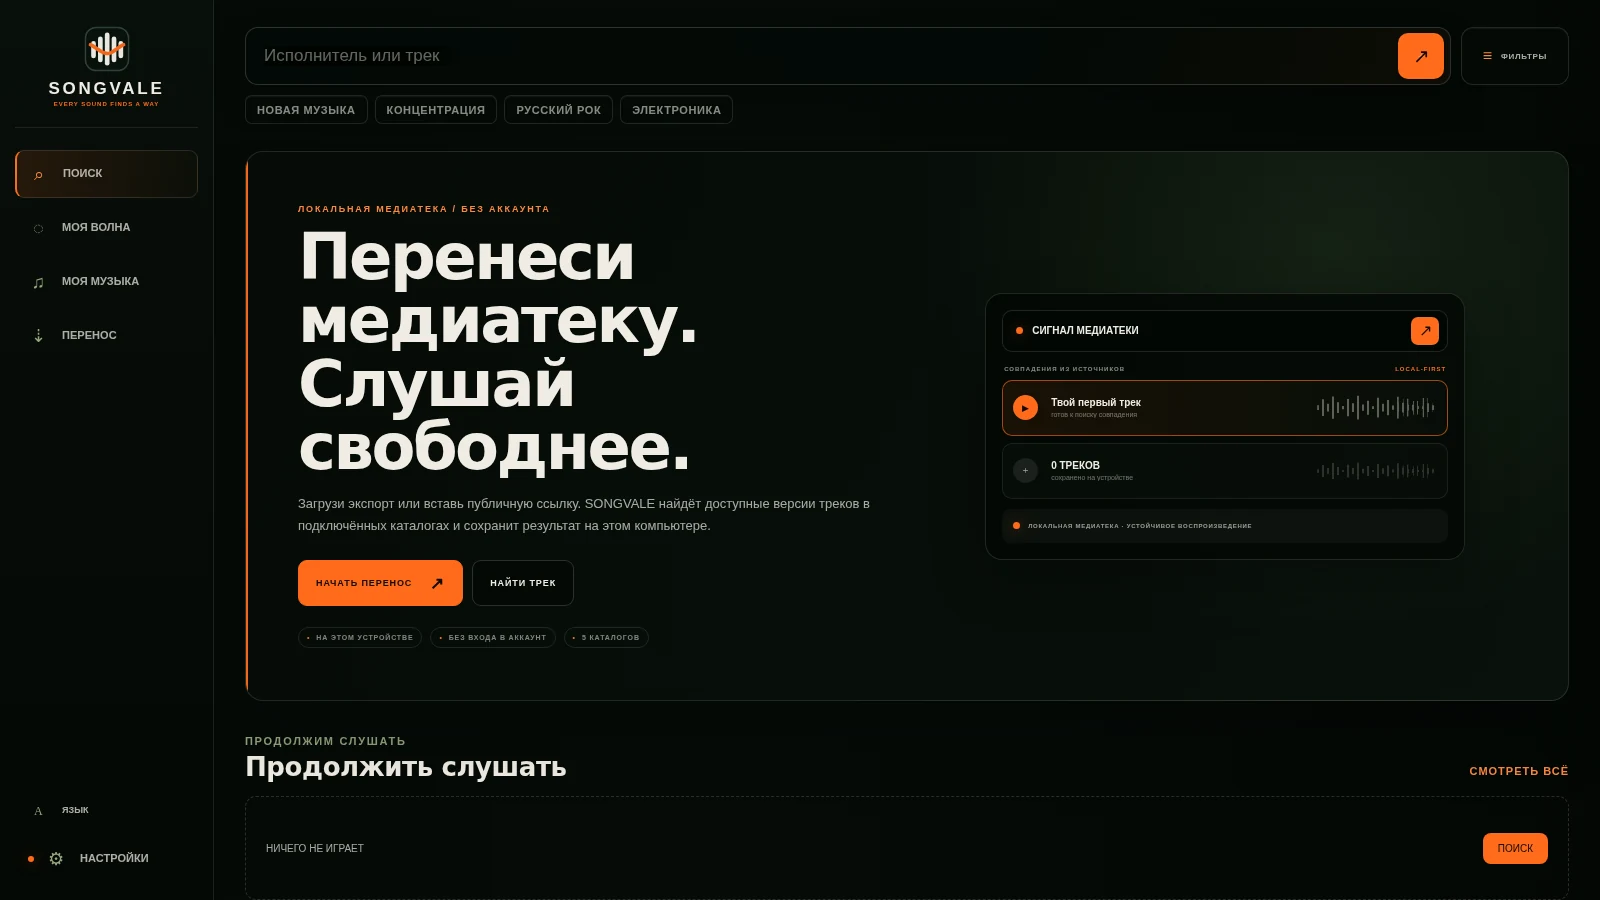
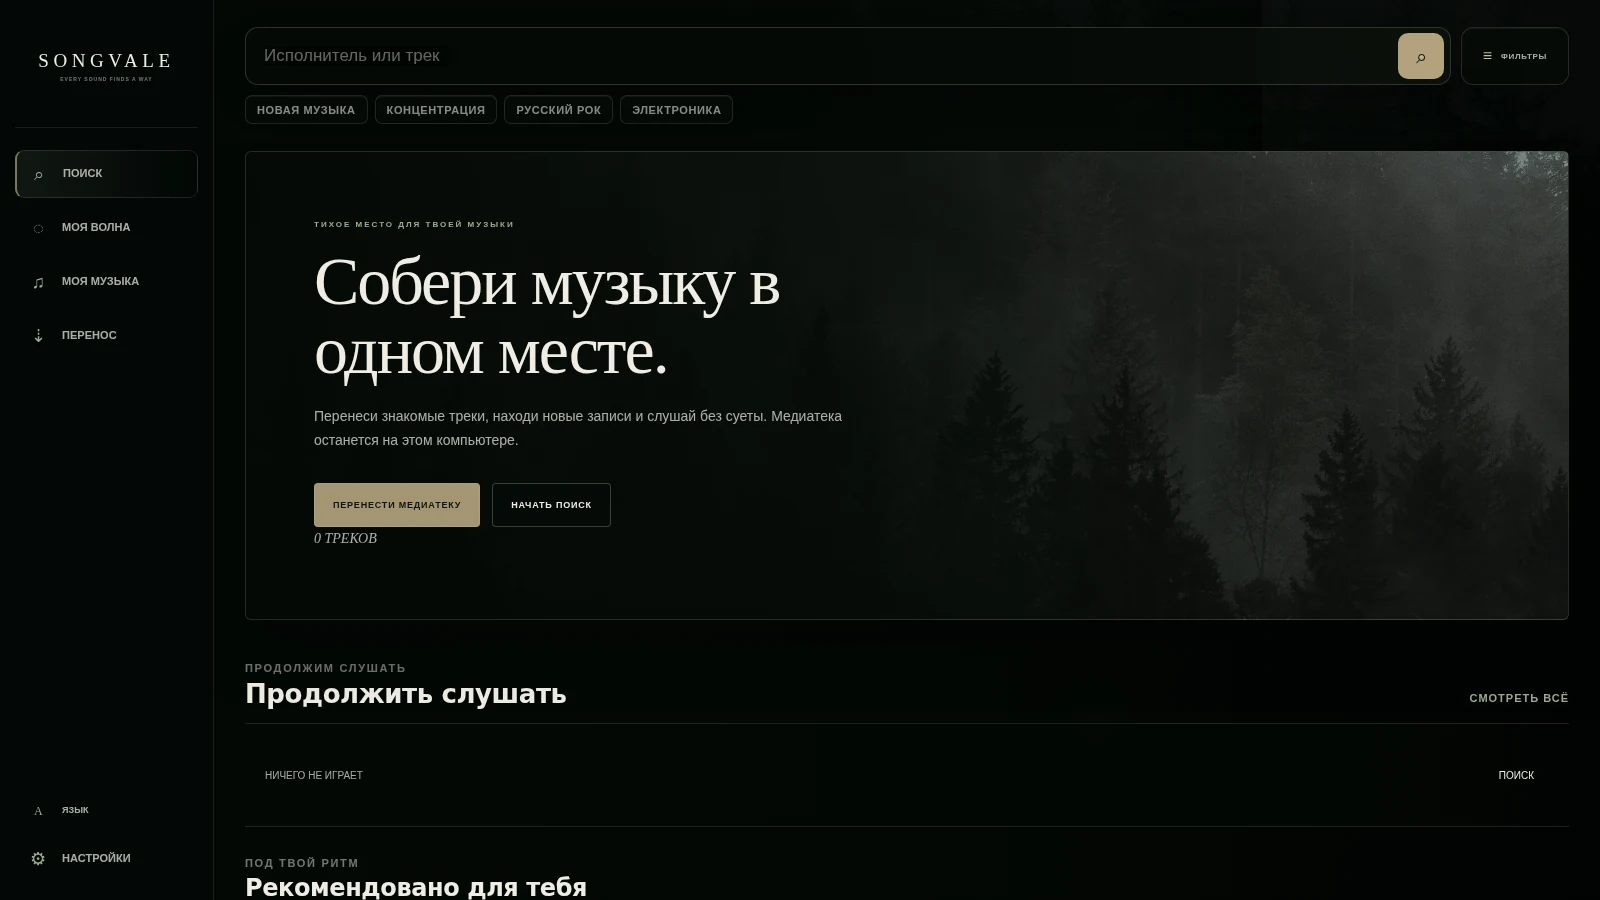
release: prepare SONGVALE 2.1.1

diff --git a/frontend/i18n.js b/frontend/i18n.js
@@ -347,7 +347,7 @@
       matchedOn: 'Matched on {source}.',
       importedMatchFailed: 'This imported track could not be matched.',
       matchingProgress: 'MATCHING {done} / {total} · {found} FOUND',
-      tracksOnDevice: '{count} TRACKS',
+      tracksOnDevice: '{count} saved on this device',
       readyToTransfer: 'Ready to transfer',
       tracksReady: '{count} unique tracks are ready. Start the transfer when you are ready.',
       transferInProgress: 'Transfer in progress',
@@ -766,7 +766,7 @@
       matchedOn: 'Совпадение найдено в {source}.',
       importedMatchFailed: 'Не удалось найти доступную версию этого импортированного трека.',
       matchingProgress: 'ПОИСК {done} / {total} · НАЙДЕНО {found}',
-      tracksOnDevice: '{count} ТРЕКОВ',
+      tracksOnDevice: '{count} сохранено на этом устройстве',
       readyToTransfer: 'Всё готово к переносу',
       tracksReady: 'Уникальных треков готово: {count}. Можно начинать перенос.',
       transferInProgress: 'Переносим медиатеку',

diff --git a/frontend/index.html b/frontend/index.html
@@ -104,7 +104,7 @@
             <button id="welcomeImport" class="welcome-primary" type="button"><span data-i18n="startTransfer">ПЕРЕНЕСТИ МЕДИАТЕКУ</span></button>
             <button id="welcomeSearch" class="welcome-secondary" type="button" data-i18n="findTrack">НАЧАТЬ ПОИСК</button>
           </div>
-          <p id="welcomeLibraryCount" class="welcome-library-state">0 треков на устройстве</p>
+          <p id="welcomeLibraryCount" class="welcome-library-state">0 сохранено на этом устройстве</p>
         </div>
       </section>
       <section class="dashboard-section continue-section" aria-labelledby="continueTitle">

diff --git a/README.ru.md b/README.ru.md
@@ -113,9 +113,9 @@ uvicorn backend.api.main:app --reload
 
 ## Проверенное качество релиза
 
-Релиз `v2.1.0` автоматически собирается из `main` через GitHub Actions.
+Релиз `v2.1.1` автоматически собирается из `main` через GitHub Actions.
 
-- **240 Python-тестов** проверяют поиск, ranking, matching, policy, надёжность, безопасность и desktop-упаковку.
+- **241 Python-тест** проверяет поиск, ranking, matching, policy, надёжность, безопасность, визуальную идентичность и desktop-упаковку.
 - **27 Playwright-сценариев** проверяют постепенный поиск, отмену, тайм-аут источника, восстановление воспроизведения, перенос медиатеки, очередь, большие библиотеки и адаптивность.
 - Интерфейс и границы контролов проверяются на ширинах **1920, 1280, 1000 и 390 пикселей**.
 - Windows workflow создаёт два EXE, рассчитывает SHA-256 и публикует GitHub Release только после успешных тестов.
@@ -127,7 +127,7 @@ uvicorn backend.api.main:app --reload
 | Платформа | Статус | Где получить |
 | --- | --- | --- |
 | Web / PWA | Публичная бета | [Открыть приложение](https://awun-1.onrender.com) |
-| Windows | Выпущенная неподписанная бета | [Скачать v2.1.0](https://github.com/Loro66/AWUN/releases/tag/v2.1.0) |
+| Windows | Выпущенная неподписанная бета | [Скачать v2.1.1](https://github.com/Loro66/AWUN/releases/tag/v2.1.1) |
 | Android | Воспроизводимая Play-сборка и пакет страницы магазина | Публикация требует подписи и тестирования в Play Console |
 | iOS | Воспроизводимая неподписанная бета | Установка на устройства требует подписи Apple |
 

diff --git a/README.md b/README.md
@@ -113,9 +113,9 @@ Open `http://127.0.0.1:8000`. Optional provider credentials and deployment setti
 
 ## Verified release quality
 
-Release `v2.1.0` is built from `main` by GitHub Actions.
+Release `v2.1.1` is built from `main` by GitHub Actions.
 
-- **240 Python tests** cover search, ranking, matching, policy, reliability, security and desktop packaging.
+- **241 Python tests** cover search, ranking, matching, policy, reliability, security, visual identity and desktop packaging.
 - **27 Playwright scenarios** exercise progressive search, cancellation, provider deadlines, playback recovery, library transfer, queue persistence, large libraries and responsive layouts.
 - Visual and control-bound checks run at **1920, 1280, 1000 and 390 pixels**.
 - The release workflow builds both Windows executables, generates SHA-256 checksums and publishes the versioned GitHub Release only after tests pass.
@@ -127,7 +127,7 @@ Release `v2.1.0` is built from `main` by GitHub Actions.
 | Surface | Status | Distribution |
 | --- | --- | --- |
 | Web / PWA | Public beta | [Open application](https://awun-1.onrender.com) |
-| Windows | Released, unsigned beta | [Download v2.1.0](https://github.com/Loro66/AWUN/releases/tag/v2.1.0) |
+| Windows | Released, unsigned beta | [Download v2.1.1](https://github.com/Loro66/AWUN/releases/tag/v2.1.1) |
 | Android | Reproducible Play bundle and store package | Release requires Play Console signing and testing |
 | iOS | Reproducible unsigned beta | Physical distribution requires Apple signing |
 

diff --git a/CHANGELOG.md b/CHANGELOG.md
@@ -2,6 +2,24 @@
 
 All notable user-visible changes are documented here. SONGVALE follows semantic versioning through the root `VERSION` file.
 
+## [2.1.1] - 2026-09-16
+
+### Redesigned
+
+- Restored the quiet dark-forest identity with real forest photography, calmer typography and a muted natural-gold accent.
+- Replaced the dashboard-like first screen with a focused invitation to transfer a library or begin searching.
+- Simplified Library Transfer into a restrained editorial workspace that keeps the forest atmosphere visible.
+
+### Removed
+
+- Removed the waveform logo, decorative status dots, numbered badges, abstract signal diagrams and arrow-heavy call-to-action styling.
+- Removed interface ornaments that looked like generated dashboard placeholders without communicating useful state.
+
+### Distribution
+
+- Refreshed the Windows, Android, iOS and browser icons around the quieter SONGVALE monogram.
+- Updated reviewed desktop and mobile screenshots and added regression coverage for the new visual identity.
+
 ## [2.1.0] - 2026-09-15
 
 ### Redesigned
@@ -115,3 +133,4 @@ Versions before 1.10.4 were iterative beta builds. Their exact changes remain av
 [1.10.6]: https://github.com/Loro66/AWUN/releases/tag/v1.10.6
 [2.0.0]: https://github.com/Loro66/AWUN/releases/tag/v2.0.0
 [2.1.0]: https://github.com/Loro66/AWUN/releases/tag/v2.1.0
+[2.1.1]: https://github.com/Loro66/AWUN/releases/tag/v2.1.1

diff --git a/mobile/android/play-store/PLAY_CONSOLE_HANDOFF_RU.md b/mobile/android/play-store/PLAY_CONSOLE_HANDOFF_RU.md
@@ -24,7 +24,7 @@
 | Название | `ru-RU/title.txt` | `en-US/title.txt` |
 | Краткое описание | `ru-RU/short_description.txt` | `en-US/short_description.txt` |
 | Полное описание | `ru-RU/full_description.txt` | `en-US/full_description.txt` |
-| Примечания к версии | `ru-RU/changelogs/2010000.txt` | `en-US/changelogs/2010000.txt` |
+| Примечания к версии | `ru-RU/changelogs/2010100.txt` | `en-US/changelogs/2010100.txt` |
 
 Для каждой локали загрузить:
 
@@ -71,7 +71,7 @@
 ## Загрузка и тестирование
 
 1. Включить Play App Signing и загрузить подписанный AAB из артефакта
-   `SONGVALE-Google-Play-2.1.0-2010000` во **Внутреннее тестирование**.
+   `SONGVALE-Google-Play-2.1.1-2010100` во **Внутреннее тестирование**.
 2. Добавить русские и английские примечания к версии.
 3. Установить сборку из Google Play на физический Android и проверить поиск,
    воспроизведение, сохранение, «Мою волну», поворот, фон, офлайн-ошибку,

diff --git a/mobile/README.md b/mobile/README.md
@@ -11,8 +11,8 @@ screen if every configured SONGVALE endpoint is unavailable.
 Google Play identity:
 
 - application ID: `com.loro66.awun`;
-- version: read from the repository `VERSION` file (`2.1.0` currently);
-- version code: derived from `VERSION` by Gradle (`2010000` currently);
+- version: read from the repository `VERSION` file (`2.1.1` currently);
+- version code: derived from `VERSION` by Gradle (`2010100` currently);
 - minimum Android: 7.0 / API 24;
 - compile and target SDK: Android 16 / API 36;
 - release format: signed Android App Bundle (`.aab`);

diff --git a/RELEASE.md b/RELEASE.md
@@ -116,7 +116,7 @@ latest commit** in Render if auto-deploy does not start.
 
 ## 6. Build the Google Play Android release
 
-The Android release is `com.loro66.awun`, version `2.1.0` / code `2010000`, and
+The Android release is `com.loro66.awun`, version `2.1.1` / code `2010100`, and
 targets Android 16 API 36. Before building, the verified Play Console account
 owner must configure the four upload-key repository secrets documented in
 `mobile/android/play-store/RELEASE_CHECKLIST.md`.
